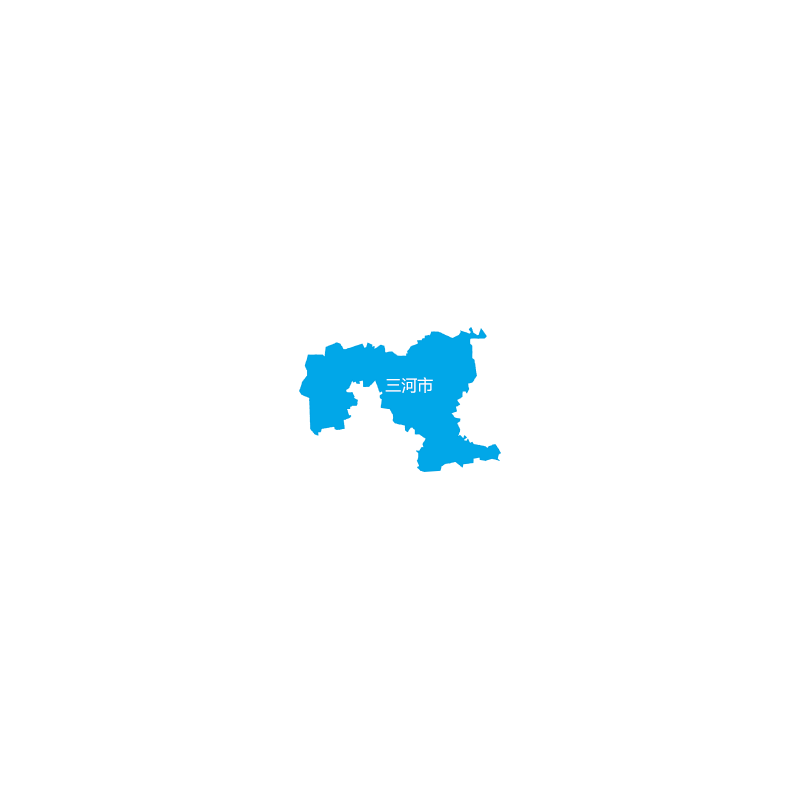
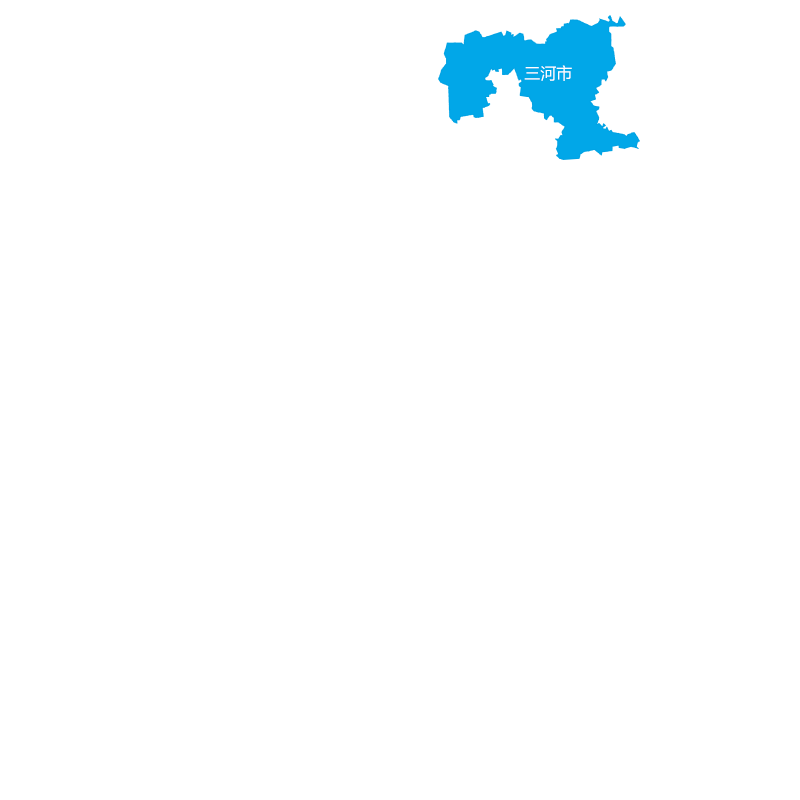
优化功能实现

Changed region(s): [[0.375, 0.4062, 0.625, 0.5938], [0.5312, 0.0, 0.8125, 0.2188]]

diff --git a/src/views/dashboard/Index.vue b/src/views/dashboard/Index.vue
@@ -1,36 +1,19 @@
 <template>
-    <div class='dashboard-container'>
+    <div class='dashboard-container flex-center'>
         <div class='content-box'>
             <Left :title='title'/>
             <div class='center-area flex-center'>
-                <div class='circle-box flex-center' :style='circleStyleObj'>
-                    <div class='circle-small flex-center'>
-                        <div class='lang-fang-shi-top-box'>
-                            <img title='三河市' :class='imgObj.SanHeShi.status === "normal" ? "san-he-shi" : "san-he-shi-click"' :src="imgObj.SanHeShi[imgObj.SanHeShi.status]" usemap="#SanHeShiMap" />
-                            <map name="SanHeShiMap" id="SanHeShiMap">
-                                <area name='三河市' data-click='SanHeShi' shape="poly" coords="16,49,26,49,27,44,38,41,41,45,51,41,56,43,63,44,68,44,82,50,101,33,114,37,129,31,136,32,141,38,128,38,133,63,122,81,117,90,122,105,138,112,145,111,149,122,133,121,122,127,110,124,98,131,92,118,96,107,86,100,75,98,73,90,63,85,65,74,50,67,42,73,50,81,43,86,43,93,41,100,27,100,22,104,17,99,18,79,11,75,15,65,15,52"/>
-                            </map>
-                            <img title='大厂回族自治县' :class='imgObj.DaChangHuiZu.status === "normal" ? "da-chang-hui-zu" : "da-chang-hui-zu-click"' :src="imgObj.DaChangHuiZu[imgObj.DaChangHuiZu.status]" usemap="#DaChangHuiZuMap" />
-                            <map name="DaChangHuiZuMap" id="DaChangHuiZuMap">
-                                <area name='大厂回族自治县' data-click='DaChangHuiZu' shape="poly" coords="17,41,18,35,21,34,20,29,26,26,24,17,19,16,21,12,26,13,30,11,38,11,46,28,49,37,60,42,69,47,64,55,64,62,56,62,56,56,46,55,36,53,24,58,14,54,9,47,6,40,14,40" />
-                            </map>
-                            <img title='香河县' :class='imgObj.XiangHeXian.status === "normal" ? "xiang-he-xian" : "xiang-he-xian-click"' :src='imgObj.XiangHeXian[imgObj.XiangHeXian.status]' usemap="#XiangHeXianMap" />
-                            <map name="XiangHeXianMap" id="XiangHeXianMap">
-                                <area name='香河县' data-click='XiangHeXian' shape="poly" coords="17,14,24,10,30,9,33,14,37,11,46,19,57,21,59,27,71,26,81,20,87,22,88,30,94,31,93,37,102,44,94,50,88,50,88,55,86,60,90,59,91,68,89,82,89,87,92,89,92,93,86,93,85,99,76,99,63,92,47,87,40,90,33,92,30,88,29,80,26,74,23,66,17,66,16,72,10,72,7,65,12,58,15,54,13,44,17,40,26,36,17,16" />
-                            </map>
-                        </div>
-                        <div class='lang-fang-shi-area-box flex-center'>
-                            <div class='point'></div>
-                            <img title='固安县' class='gu-an-xian' src='../../assets/img/big/GuAnXian.png' alt=''>
-                            <img title='永清县' class='yong-qing-xian' src='../../assets/img/big/YongQingXian.png' alt=''>
-                            <img title='广阳区' class='guang-yang-qu' src='../../assets/img/big/GuangYangQu.png' alt=''>
-                            <img title='安次区' class='an-ci-qu' src='../../assets/img/big/AnCiQu.png' alt=''>
-                            <img title='霸州市' class='ba-zhou-shi' src='../../assets/img/big/BaZhouShi.png' alt=''>
-                            <img title='文安县' class='wen-an-xian' src='../../assets/img/big/WenAnXian.png' alt=''>
-                            <img title='大城县' class='da-cheng-xian' src='../../assets/img/big/DaChengXian.png' alt=''>
-                        </div>
-                    </div>
+                <div class='hover-self'>
+                    <img :src='imgObj[title].click' alt=''>
                 </div>
+                <div class='map-img'>
+                    <img src='../../assets/img/group-6.png' alt='' usemap='#LangFangMap'>
+                </div>
+                <map name="LangFangMap" id="LangFangMap">
+                    <area name='三河市' data-click='SanHeShi' shape="poly" coords="466,74,467,67,474,58,472,49,474,37,491,38,492,31,505,24,509,30,528,26,532,29,534,26,544,30,549,26,553,35,560,32,567,39,577,38,589,25,604,13,625,19,635,14,644,14,655,13,659,17,643,24,646,40,650,57,640,65,641,72,633,75,631,81,632,85,628,92,623,95,632,102,627,107,631,120,640,124,661,133,669,128,674,136,672,143,656,144,652,139,647,140,646,144,635,146,629,143,614,147,613,152,593,153,587,146,589,137,592,129,595,124,594,116,581,112,576,107,565,103,560,94,551,88,550,77,547,69,544,64,532,67,520,65,517,72,523,81,518,90,513,97,509,105,500,108,488,108,484,114,475,110,476,89,468,77,465,74,467,74,464,74,466,67,467,68"/>
+                    <area name='大厂回族自治县' data-click='DaChangHuiZu' shape="poly" coords="485,115,494,125,499,130,509,135,519,139,526,145,525,138,533,134,548,132,552,138,553,140,567,144,578,144,585,146,590,138,593,126,594,121,587,113,577,111,565,103,558,93,552,85,547,71,541,66,530,68,520,68,522,80,524,89,519,97,516,103,508,107,496,107,488,108,486,114" />
+                    <area name='香河县' shape="poly" data-click='XiangHeXian' coords="535,141,541,157,545,167,549,175,537,175,537,182,529,184,531,198,526,203,519,207,524,221,526,224,533,214,548,214,544,222,548,231,550,238,551,243,556,245,559,250,574,243,591,248,608,253,619,261,630,259,633,252,642,249,634,237,638,221,639,210,631,198,637,192,647,188,653,184,645,170,636,165,635,155,620,156,610,158,597,160,590,155,589,151,576,150,574,143,561,136,542,135,537,139"/>
+                </map>
             </div>
             <Right/>
         </div>
@@ -76,7 +59,7 @@
                         status: 'normal'
                     }
                 },
-                title: '无',
+                title: 'SanHeShi',
             });
             const methods = reactive({
                 initScale: () => {
@@ -85,16 +68,15 @@
                     const circleValue = w / state.o_w < h / state.o_h ? w / state.o_w : h / state.o_h;
                     console.log(circleValue);
                     state.circleStyleObj = {
-                        transform: `scale(${circleValue})`,
-                        transformOrigin: 'center center'
+                        // transform: `scale(${circleValue})`,
+                        // transformOrigin: 'center center'
                     }
                 },
                 bindClick: () => {
-                    $('.lang-fang-shi-top-box area').on('click', function () {
-                        console.log($(this).attr('name'));
-                        state.title = $(this).attr('name');
+                    $('.center-area area').on('click', function () {
+                        state.title = $(this).attr('data-click');
                         Object.keys(state.imgObj).map(item => {
-                            state.imgObj[item].status = 'normal';
+                            state.imgObj[item].staus = 'normal';
                         });
                         state.imgObj[$(this).attr('data-click')].status = 'click';
                     })
@@ -114,128 +96,32 @@
 
 <style scoped lang='less'>
     .dashboard-container{
-        width: 100%;
+        min-width: 1920px;
         height: 100%;
-        background: #031765;
-        color: #fff;
+        background-image: url("../../assets/bg.png");
+        background-repeat: no-repeat;
+        background-attachment: fixed;
+        background-size: cover;
         .content-box{
-            width: 100%;
-            height: 100%;
+            width: 1720px;
+            overflow: hidden;
+            margin-top: 15px;
             display: flex;
             justify-content: space-between;
             .center-area{
-                flex: 1;
-                .circle-box{
-                    width: 600px;
-                    height: 600px;
-                    border-radius: 50%;
-                    border: 1px dashed rgba(255, 255, 255, .3);
-                    .circle-small{
-                        width: 500px;
-                        height: 500px;
-                        border-radius: 50%;
-                        border: 1px dashed rgba(255, 255, 255, .1);
-                        position: relative;
-                        img, area{
-                            cursor: pointer;
-                        }
-                        .lang-fang-shi-top-box{
-                            position: absolute;
-                            top: -50px;
-                            left: 300px;
-                            .san-he-shi{
-                                width: 130px;
-                                position: absolute;
-                                top: 0;
-                                left: 0;
-                            }
-                            .san-he-shi-click{
-                                width: 483px;
-                                position: absolute;
-                                top: -178px;
-                                left: -176px;
-                                z-index: -1;
-                            }
-                            .da-chang-hui-zu{
-                                width: 60px;
-                                position: absolute;
-                                top: 47px;
-                                left: 20px;
-                            }
-                            .da-chang-hui-zu-click{
-                                width: 444px;
-                                position: absolute;
-                                top: -147px;
-                                left: -172px;
-                                z-index: -1;
-                            }
-                            .xiang-he-xian{
-                                width: 84px;
-                                position: absolute;
-                                top: 83px;
-                                left: 30px;
-                            }
-                            .xiang-he-xian-click{
-                                width: 444px;
-                                position: absolute;
-                                top: -98px;
-                                left: -150px;
-                                z-index: -1;
-                            }
-                        }
-                        .lang-fang-shi-area-box{
-                            width: 350px;
-                            height: 350px;
-                            position: relative;
-                            .point{
-                                width: 2px;
-                                height: 2px;
-                                border-radius: 50%;
-                                background: #fff;
-                            }
-                            .gu-an-xian{
-                                width: 105px;
-                                position: absolute;
-                                top: 42px;
-                                left: 37px;
-                            }
-                            .yong-qing-xian{
-                                width: 105px;
-                                position: absolute;
-                                top: 46px;
-                                left: 89px;
-                            }
-                            .guang-yang-qu{
-                                width: 103px;
-                                position: absolute;
-                                top: -16px;
-                                left: 101px;
-                            }
-                            .an-ci-qu{
-                                width: 114px;
-                                position: absolute;
-                                top: 30px;
-                                left: 122px;
-                            }
-                            .ba-zhou-shi{
-                                width: 147px;
-                                position: absolute;
-                                top: 78px;
-                                left: 75px;
-                            }
-                            .wen-an-xian{
-                                width: 120px;
-                                position: absolute;
-                                top: 142px;
-                                left: 66px;
-                            }
-                            .da-cheng-xian{
-                                width: 103px;
-                                position: absolute;
-                                top: 205px;
-                                left: 93px;
-                            }
-                        }
+                width: 840px;
+                height: 810px;
+                text-align: center;
+                background: url("../../assets/img/zhms/map.png");
+                background-size: cover;
+                position: relative;
+                .hover-self{
+                    position: absolute;
+                }
+                .map-img{
+                    position: absolute;
+                    img{
+                        width: 100%;
                     }
                 }
             }

diff --git a/vite.config.js b/vite.config.js
@@ -1,6 +1,5 @@
 import { defineConfig } from 'vite';
 import { resolve } from 'path';
-import { transformRequireDynamic } from './src/plugins';
 import vue from '@vitejs/plugin-vue';
 
 function pathResolve(dir) {
@@ -10,8 +9,7 @@ function pathResolve(dir) {
 export default defineConfig({
     base: './',
     plugins: [
-        vue(),
-        transformRequireDynamic()
+        vue()
     ], // 配置需要使用的插件列表，将vue添加进去
     resolve: { // 配置文件别名
         alias: {

diff --git a/src/router/index.ts b/src/router/index.ts
@@ -7,8 +7,13 @@ export const constantRoutes: Array<RouteRecordRaw> = [
         name: 'Dashboard'
     },
     {
+        path: '/test',
+        component: () => import('@/views/test/Index.vue'),
+        name: 'Test'
+    },
+    {
         path: '/',
-        redirect: '/dashboard'
+        redirect: '/test'
     }
 ];
 const router = createRouter({

diff --git a/src/components/Left/Index.vue b/src/components/Left/Index.vue
@@ -18,8 +18,8 @@
 
 <style scoped lang='less'>
     .left-container{
-        width: 400px;
-        height: 100%;
+        width: 435px;
+        height: 800px;
         border-right: 1px dashed #fff;
     }
 </style>

diff --git a/src/components/Right/Index.vue b/src/components/Right/Index.vue
@@ -13,8 +13,8 @@
 
 <style scoped lang='less'>
     .right-container{
-        width: 400px;
-        height: 100%;
+        width: 435px;
+        height: 800px;
         border-left: 1px dashed #fff;
     }
 </style>
